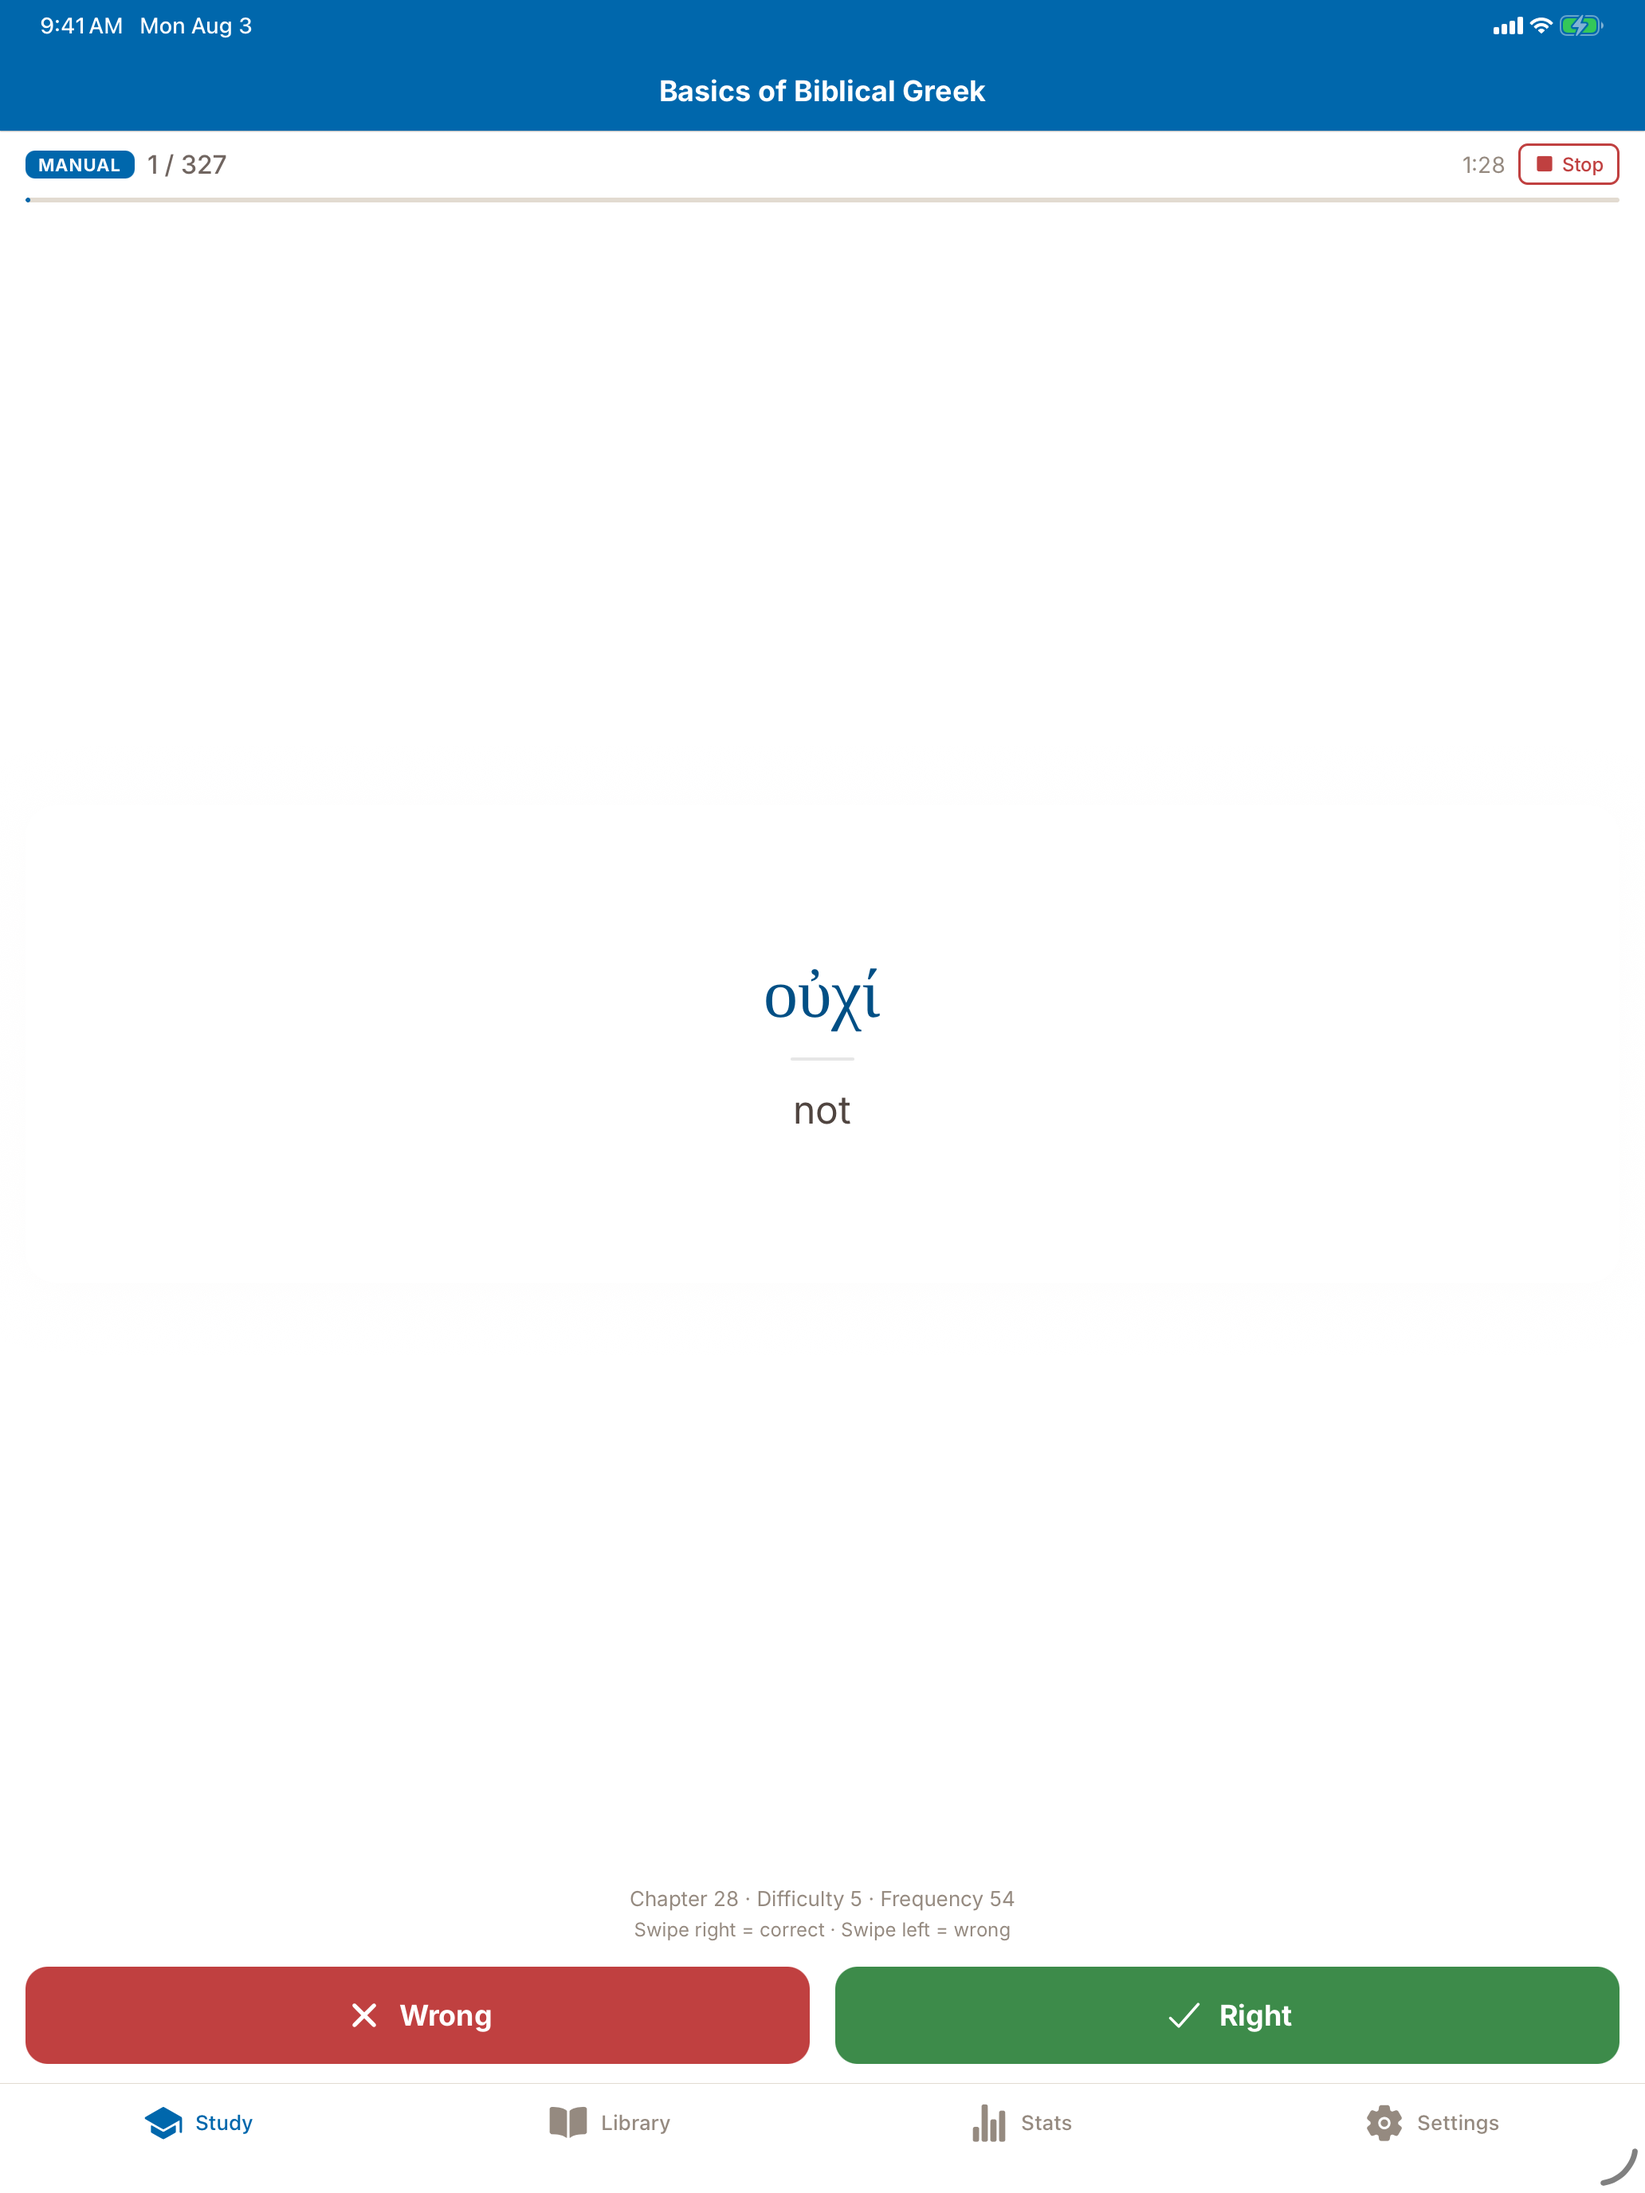
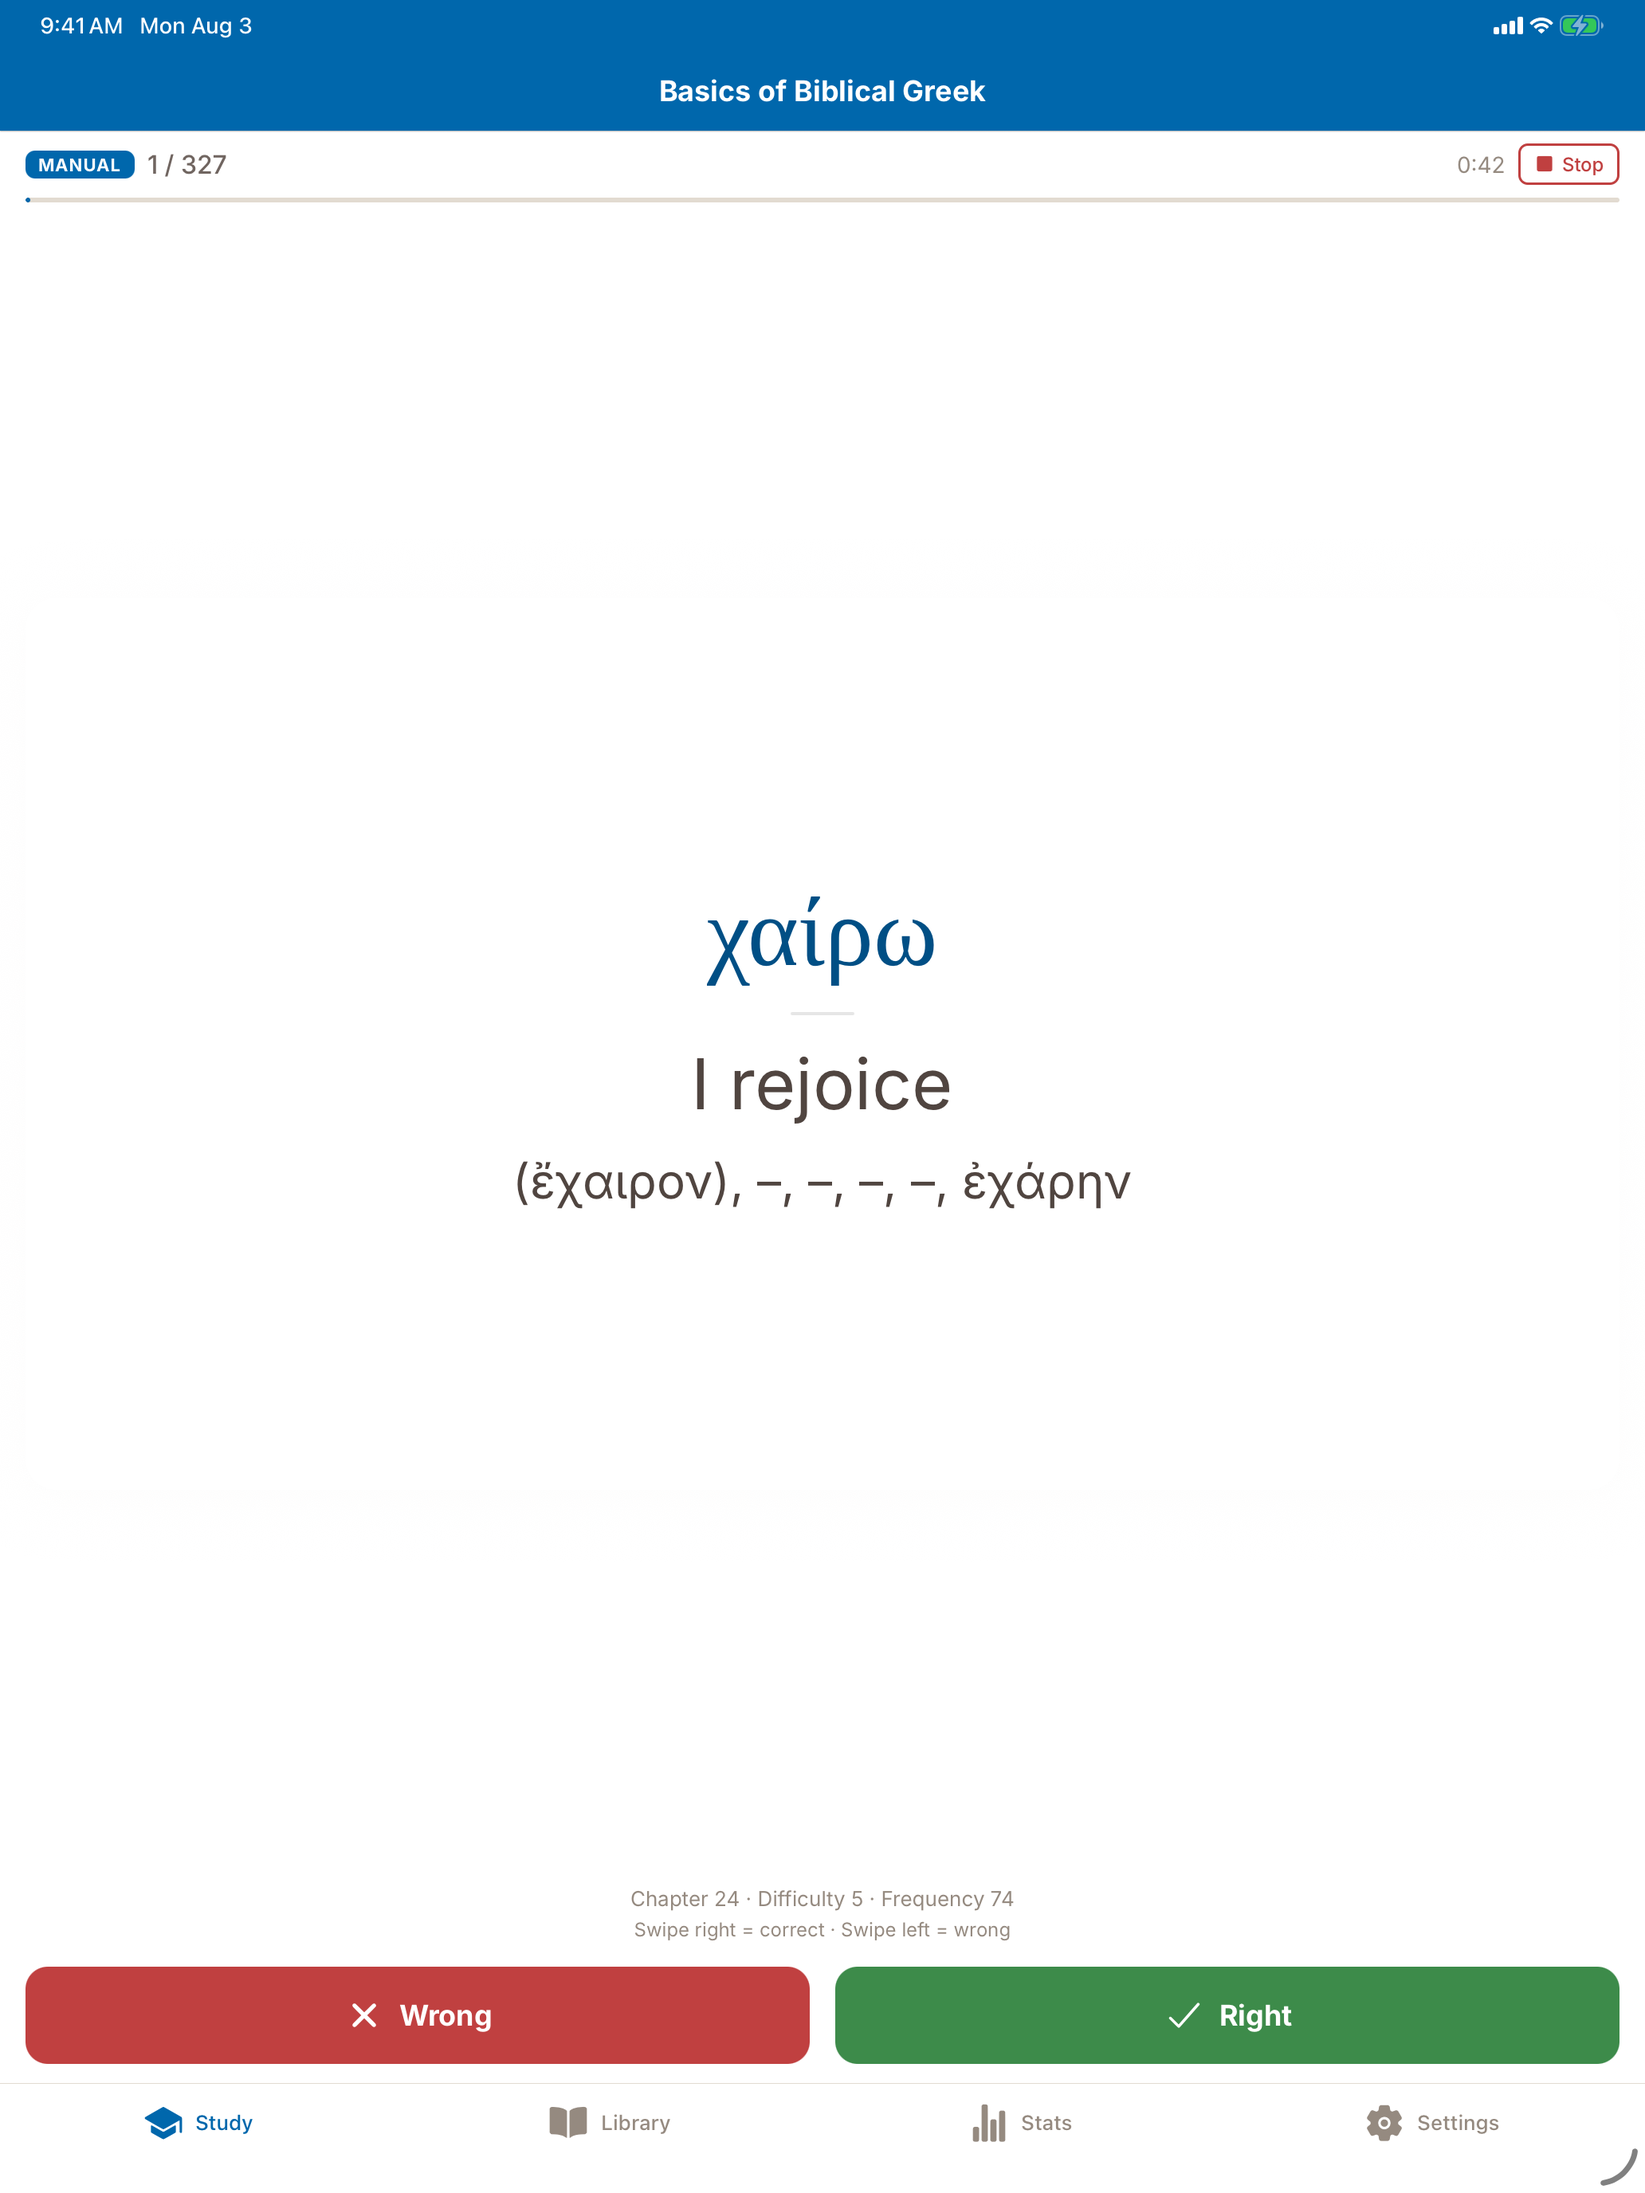
Enlarge card text on tablets, sized against the widest word in the database
The card used the same sizes on iPad as iPhone — 51pt Greek and 24pt meaning
in portrait — which reads small on a 13" screen. Tablets now use 72pt Greek
and 44pt meaning, the same in both orientations as requested.

Sizes were derived from the actual data measured in the actual fonts, not
estimated. 'περισσότερος, –τέρα, –τερον' is the widest of all 1,127 words; in
Tinos it occupies 836pt at 72pt against 920pt of usable width in iPad portrait
(1032 screen − 32 container − 48 card padding − 32 text padding), leaving 9%
headroom. Portrait is the tighter orientation, so reusing the size in landscape
is safe there too — it has 1054pt, a 21% margin. The widest meaning needs
1,576pt at 44pt across up to 3 lines, well inside the 2,760pt available, and
principal parts at 0.7x need 1,217pt.

useDynamicFontSize had to be bypassed on tablets. It approximates character
width as 0.55em, which is wrong in both directions — the widest word actually
averages 0.43em, so the approximation would have shrunk it to ~61pt despite it
fitting at 72pt. GreekText takes an autoShrink prop for this; iOS's own
adjustsFontSizeToFit still guarantees nothing overflows, including longer words
a user adds later. Phones keep the old behaviour untouched.

Card minHeight on tablets goes 300/210 -> 560; worst-case content computes to
~359pt, so the card never clips.

Verified on an iPad Pro 13" simulator by measuring rendered ink against font
[…]

Changed region(s): [[0.4341, 0.4062, 0.5891, 0.5312], [0.3101, 0.5312, 0.4341, 0.5625], [0.5891, 0.5312, 0.6822, 0.5625]]

diff --git a/app/(tabs)/study.tsx b/app/(tabs)/study.tsx
@@ -13,6 +13,23 @@ import { StudyControls } from '@/src/components/study/StudyControls';
 import { SwipeableCard } from '@/src/components/study/SwipeableCard';
 import { AutoTimerBar } from '@/src/components/study/AutoTimer';
 
+// Tablet card typography. Sized against the widest entries actually in the
+// bundled database, measured in the real fonts rather than estimated:
+//
+//   Greek   'περισσότερος, –τέρα, –τερον' is the widest of all 1,127 words.
+//           In Tinos it needs 838pt at 72pt, against 920pt of usable width in
+//           iPad portrait (1032 screen − 32 container − 48 card − 32 text
+//           padding). Portrait is the tighter orientation, so the same size is
+//           reused in landscape, where 1054pt is available.
+//   Meaning The widest meaning needs 1,576pt at 44pt across up to 3 lines,
+//           well inside the 2,760pt those lines provide. Principal parts render
+//           at 0.7x and need 1,217pt, also comfortable.
+//
+// iOS adjustsFontSizeToFit remains the backstop for anything a user adds later.
+const TABLET_GREEK_SIZE = 72;
+const TABLET_MEANING_SIZE = 44;
+const TABLET_CARD_MIN_HEIGHT = 560;
+
 function formatTime(ms: number): string {
   const totalSec = Math.floor(ms / 1000);
   const min = Math.floor(totalSec / 60);
@@ -398,9 +415,22 @@ export default function StudyScreen() {
                     word={currentWord}
                     face={state.cardFace}
                     onTap={state.cardFace === 'word' ? handleReveal : () => {}}
-                    greekFontSize={active?.sizeOfForeign ? Math.floor(active.sizeOfForeign / (isLandscape ? 1.7 : 2.5)) : isLandscape ? 70 : 48}
-                    meaningFontSize={active?.sizeOfMeaning ? Math.floor(active.sizeOfMeaning / (isLandscape ? 1.9 : 2.5)) : isLandscape ? 32 : 24}
-                    minHeight={isLandscape ? 210 : 300}
+                    greekFontSize={
+                      isTablet
+                        ? TABLET_GREEK_SIZE
+                        : active?.sizeOfForeign
+                          ? Math.floor(active.sizeOfForeign / (isLandscape ? 1.7 : 2.5))
+                          : isLandscape ? 70 : 48
+                    }
+                    meaningFontSize={
+                      isTablet
+                        ? TABLET_MEANING_SIZE
+                        : active?.sizeOfMeaning
+                          ? Math.floor(active.sizeOfMeaning / (isLandscape ? 1.9 : 2.5))
+                          : isLandscape ? 32 : 24
+                    }
+                    minHeight={isTablet ? TABLET_CARD_MIN_HEIGHT : isLandscape ? 210 : 300}
+                    autoShrinkGreek={!isTablet}
                   />
                 )}
               </SwipeableCard>

diff --git a/src/components/study/GreekText.tsx b/src/components/study/GreekText.tsx
@@ -5,16 +5,32 @@ import { useDynamicFontSize } from '@/src/hooks/useDynamicFontSize';
 interface GreekTextProps {
   text: string;
   baseFontSize?: number;
+  /**
+   * useDynamicFontSize guesses width as 0.55em per character, which is wrong in
+   * both directions: the widest word in the bundled database averages 0.43em, so
+   * the guess shrinks it needlessly, while some short words average 0.66em. Pass
+   * false when the caller has already sized against the real worst case — iOS's
+   * own adjustsFontSizeToFit still guarantees nothing overflows, including any
+   * longer words a user adds later.
+   */
+  autoShrink?: boolean;
 }
 
-export function GreekText({ text, baseFontSize = 48 }: GreekTextProps) {
+export function GreekText({ text, baseFontSize = 48, autoShrink = true }: GreekTextProps) {
   const { colors } = useTheme();
   const { fontSize, onLayout } = useDynamicFontSize(text, baseFontSize);
 
   return (
-    <View style={styles.container} onLayout={onLayout}>
+    <View style={styles.container} onLayout={autoShrink ? onLayout : undefined}>
       <Text
-        style={[styles.text, { fontSize, color: colors.greekText, fontFamily: fontFamilies.greek }]}
+        style={[
+          styles.text,
+          {
+            fontSize: autoShrink ? fontSize : baseFontSize,
+            color: colors.greekText,
+            fontFamily: fontFamilies.greek,
+          },
+        ]}
         numberOfLines={2}
         adjustsFontSizeToFit
       >

diff --git a/src/components/study/FlashCard.tsx b/src/components/study/FlashCard.tsx
@@ -20,6 +20,8 @@ interface FlashCardProps {
   greekFontSize?: number;
   meaningFontSize?: number;
   minHeight?: number;
+  /** See GreekText — pass false when the caller has sized for the worst-case word. */
+  autoShrinkGreek?: boolean;
 }
 
 export function FlashCard({
@@ -29,6 +31,7 @@ export function FlashCard({
   greekFontSize = 48,
   meaningFontSize = 24,
   minHeight = 300,
+  autoShrinkGreek = true,
 }: FlashCardProps) {
   const { colors } = useTheme();
   const flipProgress = useSharedValue(0);
@@ -67,7 +70,7 @@ export function FlashCard({
         ]}
       >
         <View style={styles.content}>
-          <GreekText text={word.dbWord} baseFontSize={greekFontSize} />
+          <GreekText text={word.dbWord} baseFontSize={greekFontSize} autoShrink={autoShrinkGreek} />
         </View>
       </Animated.View>
 
@@ -81,7 +84,11 @@ export function FlashCard({
         ]}
       >
         <View style={styles.content}>
-          <GreekText text={word.dbWord} baseFontSize={Math.floor(greekFontSize * 0.85)} />
+          <GreekText
+            text={word.dbWord}
+            baseFontSize={Math.floor(greekFontSize * 0.85)}
+            autoShrink={autoShrinkGreek}
+          />
           <View style={styles.divider} />
           <MeaningText text={word.dbMeaning} fontSize={meaningFontSize} />
           {word.dbPrincipalParts ? (
